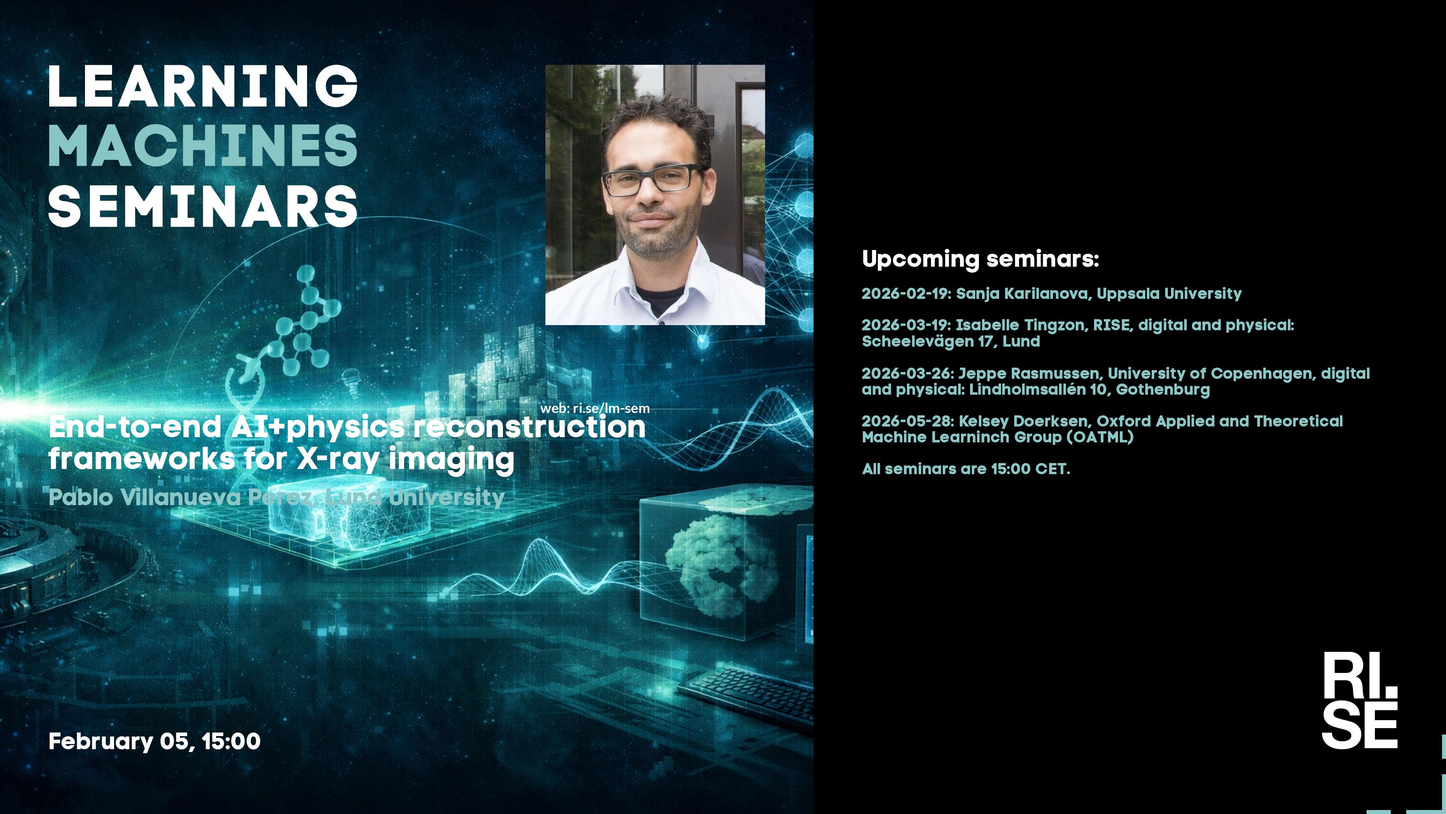
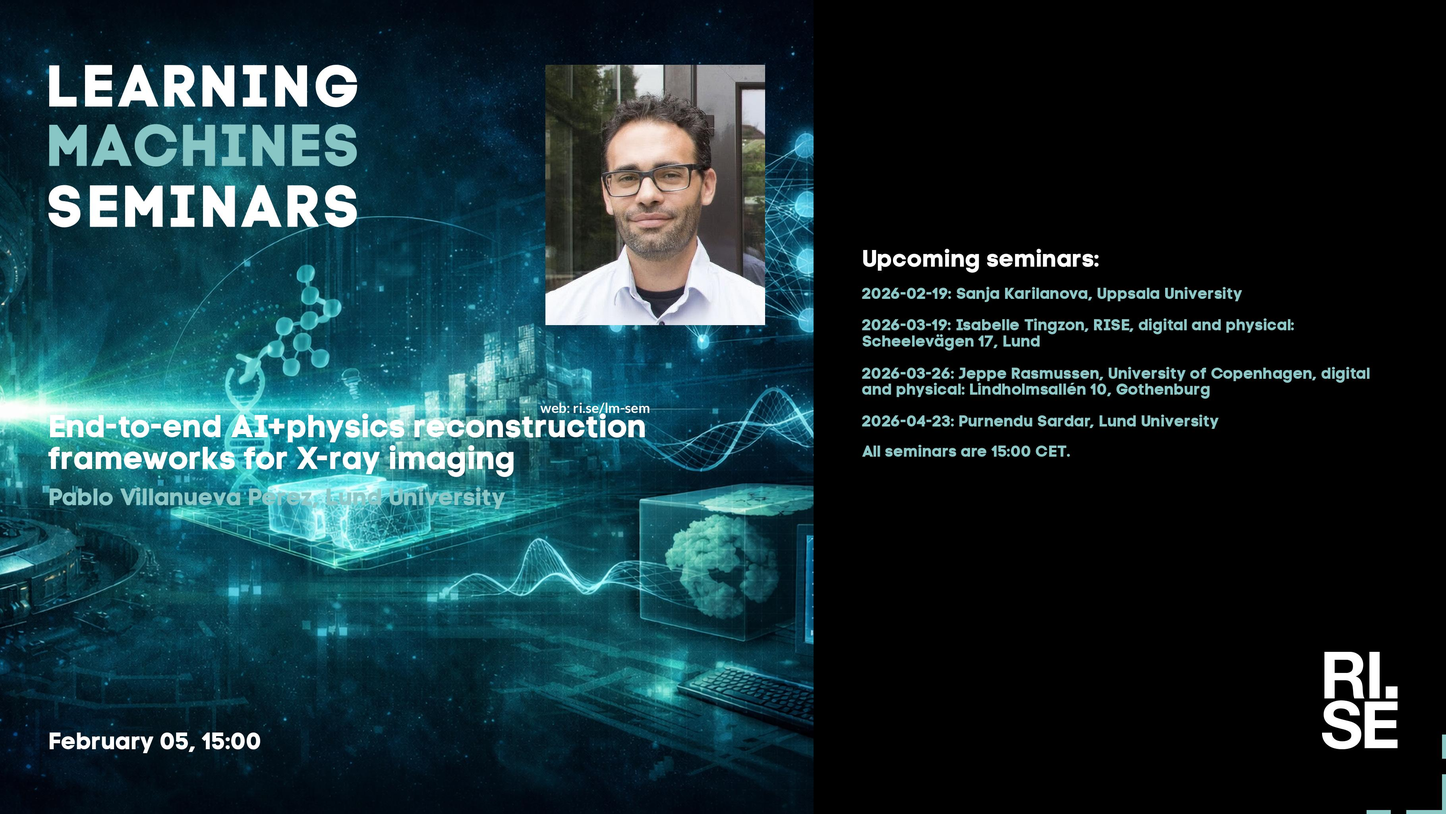
Updated plan on web site.

Changed region(s): [[0.5898, 0.5, 0.9313, 0.5938]]

diff --git a/lm/2026.md b/lm/2026.md
@@ -12,7 +12,7 @@ table {border-collapse: collapse;}
 |  2026-01-22  |  [Nita Mulliqi, Karolinska Institute](2026-01-22.md)  |  [photo](2026-01-22-photo-nita-mulliqi.webp)  |  [social media bg ](2026-01-22-social-media-bg-nita-mulliqi.jpg) --- [social media photo ](2026-01-22-social-media-photo-nita-mulliqi.jpg) --- [social media 169 ](2026-01-22-social-media-169-nita-mulliqi.jpg)  |  [meeting backdrop ](2026-01-22-meeting-backdrop-nita-mulliqi.jpg)  |  [youtube thumbnail ](2026-01-22-youtube-thumbnail-nita-mulliqi.jpg)  |  STABP  |
 |  2026-02-05  |  [Pablo Villanueva Perez, Lund University](2026-02-05.md)  |  [photo](2026-02-05-photo-pablo-villanueva-perez.png)  |  [social media bg ](2026-02-05-social-media-bg-pablo-villanueva-perez.jpg) --- [social media photo ](2026-02-05-social-media-photo-pablo-villanueva-perez.jpg) --- [social media 169 ](2026-02-05-social-media-169-pablo-villanueva-perez.jpg)  |  [meeting backdrop ](2026-02-05-meeting-backdrop-pablo-villanueva-perez.jpg)  |  [youtube thumbnail ](2026-02-05-youtube-thumbnail-pablo-villanueva-perez.jpg)  |  STABP  |
 |  2026-02-19  |  [Sanja Karilanova, Uppsala University](2026-02-19.md)  |  [photo](2026-02-19-photo-sanja-karilanova.jpg)  |  [social media bg ](2026-02-19-social-media-bg-sanja-karilanova.jpg) --- [social media photo ](2026-02-19-social-media-photo-sanja-karilanova.jpg) --- [social media 169 ](2026-02-19-social-media-169-sanja-karilanova.jpg)  |  [meeting backdrop ](2026-02-19-meeting-backdrop-sanja-karilanova.jpg)  |  [youtube thumbnail ](2026-02-19-youtube-thumbnail-sanja-karilanova.jpg)  |  STABP  |
-| <span style="color:red"> 2026-03-05 </span> | <span style="color:red"> [unknown, Lund University](2026-03-05.md) </span> | <span style="color:red">  </span> | <span style="color:red">  ---  ---  </span> | <span style="color:red">  </span> | <span style="color:red">  </span> | <span style="color:red"> CANCELLED </span> |
+| <span style="color:red"> 2026-03-05 </span> | <span style="color:red"> [unknown](2026-03-05.md) </span> | <span style="color:red">  </span> | <span style="color:red">  ---  ---  </span> | <span style="color:red">  </span> | <span style="color:red">  </span> | <span style="color:red"> CANCELLED </span> |
 |  2026-03-19  |  [Isabelle Tingzon, RISE Research Institutes of Sweden](2026-03-19.md)  |  [photo](2026-03-19-photo-isabelle-tingzon.jpg)  |  [social media bg ](2026-03-19-social-media-bg-isabelle-tingzon.jpg) --- [social media photo ](2026-03-19-social-media-photo-isabelle-tingzon.jpg) --- [social media 169 ](2026-03-19-social-media-169-isabelle-tingzon.jpg)  |  [meeting backdrop ](2026-03-19-meeting-backdrop-isabelle-tingzon.jpg)  |  [youtube thumbnail ](2026-03-19-youtube-thumbnail-isabelle-tingzon.jpg)  |  STABP  |
 |  2026-03-26  |  [Jeppe Rasmussen, University of Copenhagen](2026-03-26.md)  |  [photo](2026-03-26-photo-jeppe-rasmussen.webp)  |  [social media bg ](2026-03-26-social-media-bg-jeppe-rasmussen.jpg) --- [social media photo ](2026-03-26-social-media-photo-jeppe-rasmussen.jpg) --- [social media 169 ](2026-03-26-social-media-169-jeppe-rasmussen.jpg)  |  [meeting backdrop ](2026-03-26-meeting-backdrop-jeppe-rasmussen.jpg)  |  [youtube thumbnail ](2026-03-26-youtube-thumbnail-jeppe-rasmussen.jpg)  |  STABP  |
 | <span style="color:red"> 2026-04-09 </span> | <span style="color:red"> Maundy Thursday </span> | <span style="color:red">  </span> | <span style="color:red">  ---  ---  </span> | <span style="color:red">  </span> | <span style="color:red">  </span> | <span style="color:red"> CANCELLED </span> |

diff --git a/lm/index.md b/lm/index.md
@@ -12,7 +12,7 @@ table {border-collapse: collapse;}
 |  2026-01-22  |  [Nita Mulliqi, Karolinska Institute](2026-01-22.md)  |  [photo](2026-01-22-photo-nita-mulliqi.webp)  |  [social media bg ](2026-01-22-social-media-bg-nita-mulliqi.jpg) --- [social media photo ](2026-01-22-social-media-photo-nita-mulliqi.jpg) --- [social media 169 ](2026-01-22-social-media-169-nita-mulliqi.jpg)  |  [meeting backdrop ](2026-01-22-meeting-backdrop-nita-mulliqi.jpg)  |  [youtube thumbnail ](2026-01-22-youtube-thumbnail-nita-mulliqi.jpg)  |  STABP  |
 |  2026-02-05  |  [Pablo Villanueva Perez, Lund University](2026-02-05.md)  |  [photo](2026-02-05-photo-pablo-villanueva-perez.png)  |  [social media bg ](2026-02-05-social-media-bg-pablo-villanueva-perez.jpg) --- [social media photo ](2026-02-05-social-media-photo-pablo-villanueva-perez.jpg) --- [social media 169 ](2026-02-05-social-media-169-pablo-villanueva-perez.jpg)  |  [meeting backdrop ](2026-02-05-meeting-backdrop-pablo-villanueva-perez.jpg)  |  [youtube thumbnail ](2026-02-05-youtube-thumbnail-pablo-villanueva-perez.jpg)  |  STABP  |
 |  2026-02-19  |  [Sanja Karilanova, Uppsala University](2026-02-19.md)  |  [photo](2026-02-19-photo-sanja-karilanova.jpg)  |  [social media bg ](2026-02-19-social-media-bg-sanja-karilanova.jpg) --- [social media photo ](2026-02-19-social-media-photo-sanja-karilanova.jpg) --- [social media 169 ](2026-02-19-social-media-169-sanja-karilanova.jpg)  |  [meeting backdrop ](2026-02-19-meeting-backdrop-sanja-karilanova.jpg)  |  [youtube thumbnail ](2026-02-19-youtube-thumbnail-sanja-karilanova.jpg)  |  STABP  |
-| <span style="color:red"> 2026-03-05 </span> | <span style="color:red"> [unknown, Lund University](2026-03-05.md) </span> | <span style="color:red">  </span> | <span style="color:red">  ---  ---  </span> | <span style="color:red">  </span> | <span style="color:red">  </span> | <span style="color:red"> CANCELLED </span> |
+| <span style="color:red"> 2026-03-05 </span> | <span style="color:red"> [unknown](2026-03-05.md) </span> | <span style="color:red">  </span> | <span style="color:red">  ---  ---  </span> | <span style="color:red">  </span> | <span style="color:red">  </span> | <span style="color:red"> CANCELLED </span> |
 |  2026-03-19  |  [Isabelle Tingzon, RISE Research Institutes of Sweden](2026-03-19.md)  |  [photo](2026-03-19-photo-isabelle-tingzon.jpg)  |  [social media bg ](2026-03-19-social-media-bg-isabelle-tingzon.jpg) --- [social media photo ](2026-03-19-social-media-photo-isabelle-tingzon.jpg) --- [social media 169 ](2026-03-19-social-media-169-isabelle-tingzon.jpg)  |  [meeting backdrop ](2026-03-19-meeting-backdrop-isabelle-tingzon.jpg)  |  [youtube thumbnail ](2026-03-19-youtube-thumbnail-isabelle-tingzon.jpg)  |  STABP  |
 |  2026-03-26  |  [Jeppe Rasmussen, University of Copenhagen](2026-03-26.md)  |  [photo](2026-03-26-photo-jeppe-rasmussen.webp)  |  [social media bg ](2026-03-26-social-media-bg-jeppe-rasmussen.jpg) --- [social media photo ](2026-03-26-social-media-photo-jeppe-rasmussen.jpg) --- [social media 169 ](2026-03-26-social-media-169-jeppe-rasmussen.jpg)  |  [meeting backdrop ](2026-03-26-meeting-backdrop-jeppe-rasmussen.jpg)  |  [youtube thumbnail ](2026-03-26-youtube-thumbnail-jeppe-rasmussen.jpg)  |  STABP  |
 | <span style="color:red"> 2026-04-09 </span> | <span style="color:red"> Maundy Thursday </span> | <span style="color:red">  </span> | <span style="color:red">  ---  ---  </span> | <span style="color:red">  </span> | <span style="color:red">  </span> | <span style="color:red"> CANCELLED </span> |

diff --git a/lm/2026-02-05.md b/lm/2026-02-05.md
@@ -27,7 +27,7 @@ In this talk, we present end-to-end frameworks that merge state-of-the-art AI wi
 * 2026-02-19: Sanja Karilanova, Uppsala University
 * 2026-03-19: Isabelle Tingzon, RISE, **digital and physical: Scheelevägen 17, Lund**
 * 2026-03-26: Jeppe Rasmussen, University of Copenhagen, **digital and physical: Lindholmsallén 10, Gothenburg**
-* 2026-05-28: Kelsey Doerksen, Oxford Applied and Theoretical Machine Learninch Group (OATML)
+* 2026-04-23: Purnendu Sardar, Lund University
 * All seminars are 15:00 CET.
 
 More information and coming seminars: [https://ri.se/lm-sem](https://ri.se/lm-sem)

diff --git a/lm/2026-02-19.md b/lm/2026-02-19.md
@@ -24,6 +24,7 @@ Welcome to this week's Learning Machines seminar.
 
 * 2026-03-19: Isabelle Tingzon, RISE, **digital and physical: Scheelevägen 17, Lund**
 * 2026-03-26: Jeppe Rasmussen, University of Copenhagen, **digital and physical: Lindholmsallén 10, Gothenburg**
+* 2026-04-23: Purnendu Sardar, Lund University
 * 2026-05-28: Kelsey Doerksen, Oxford Applied and Theoretical Machine Learninch Group (OATML)
 * All seminars are 15:00 CET.
 
